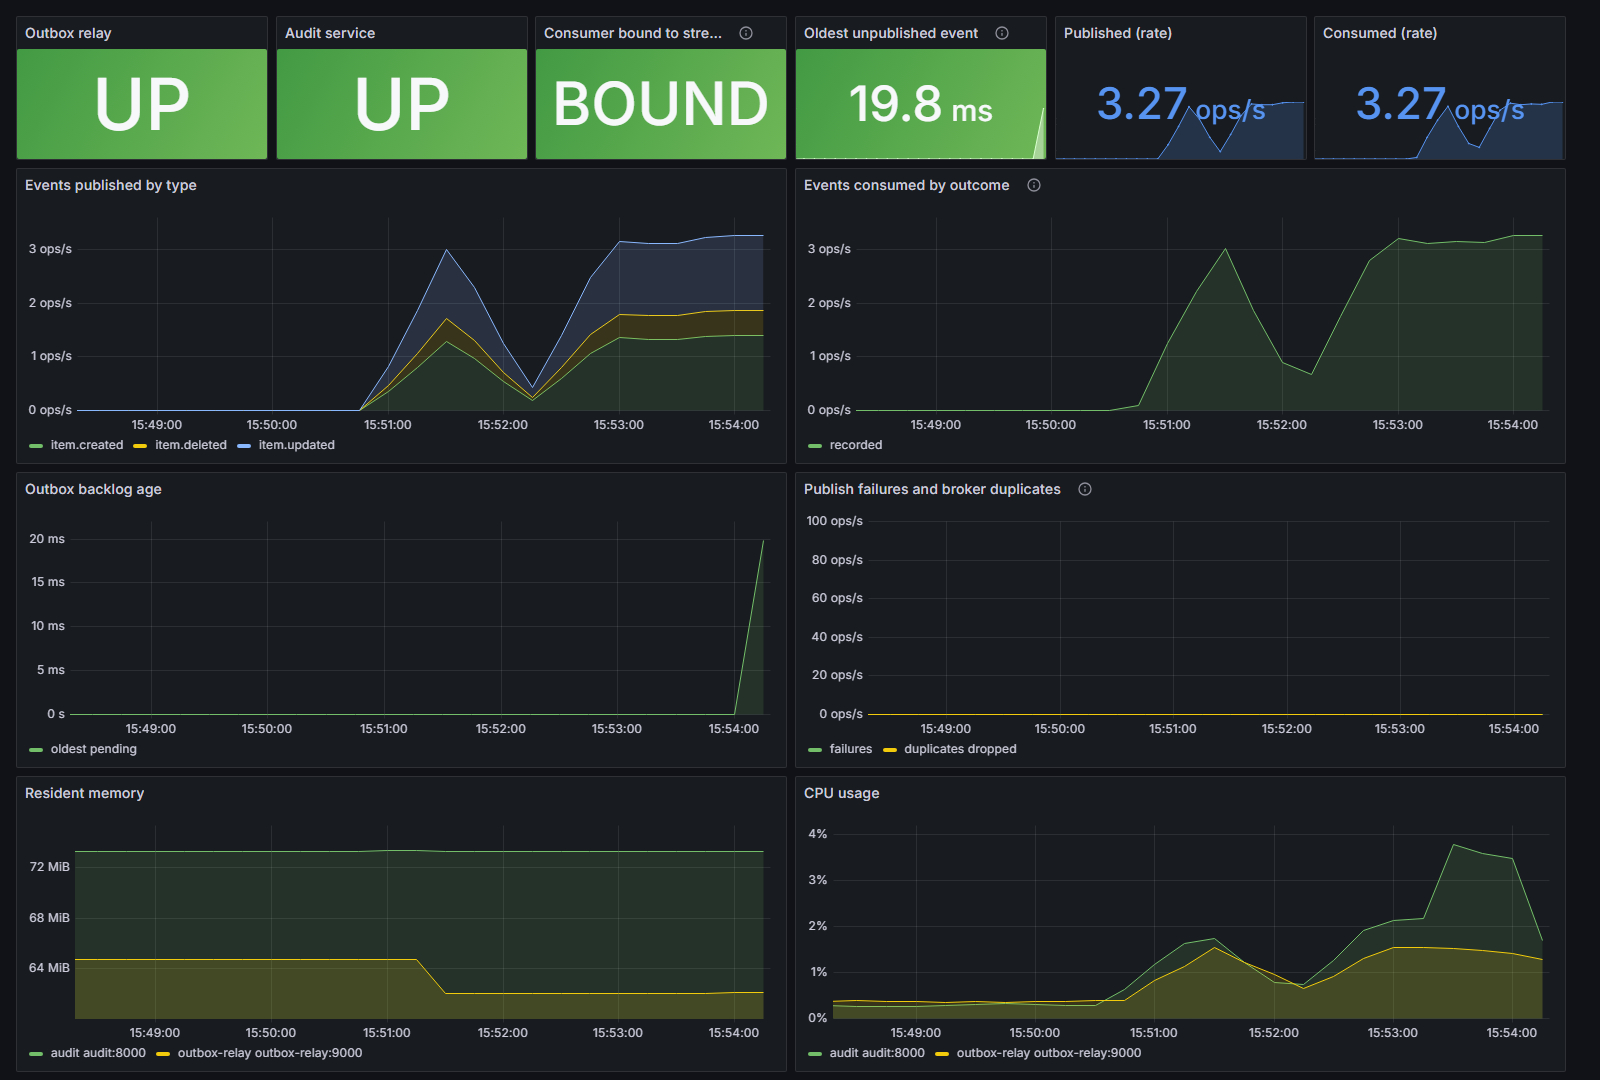
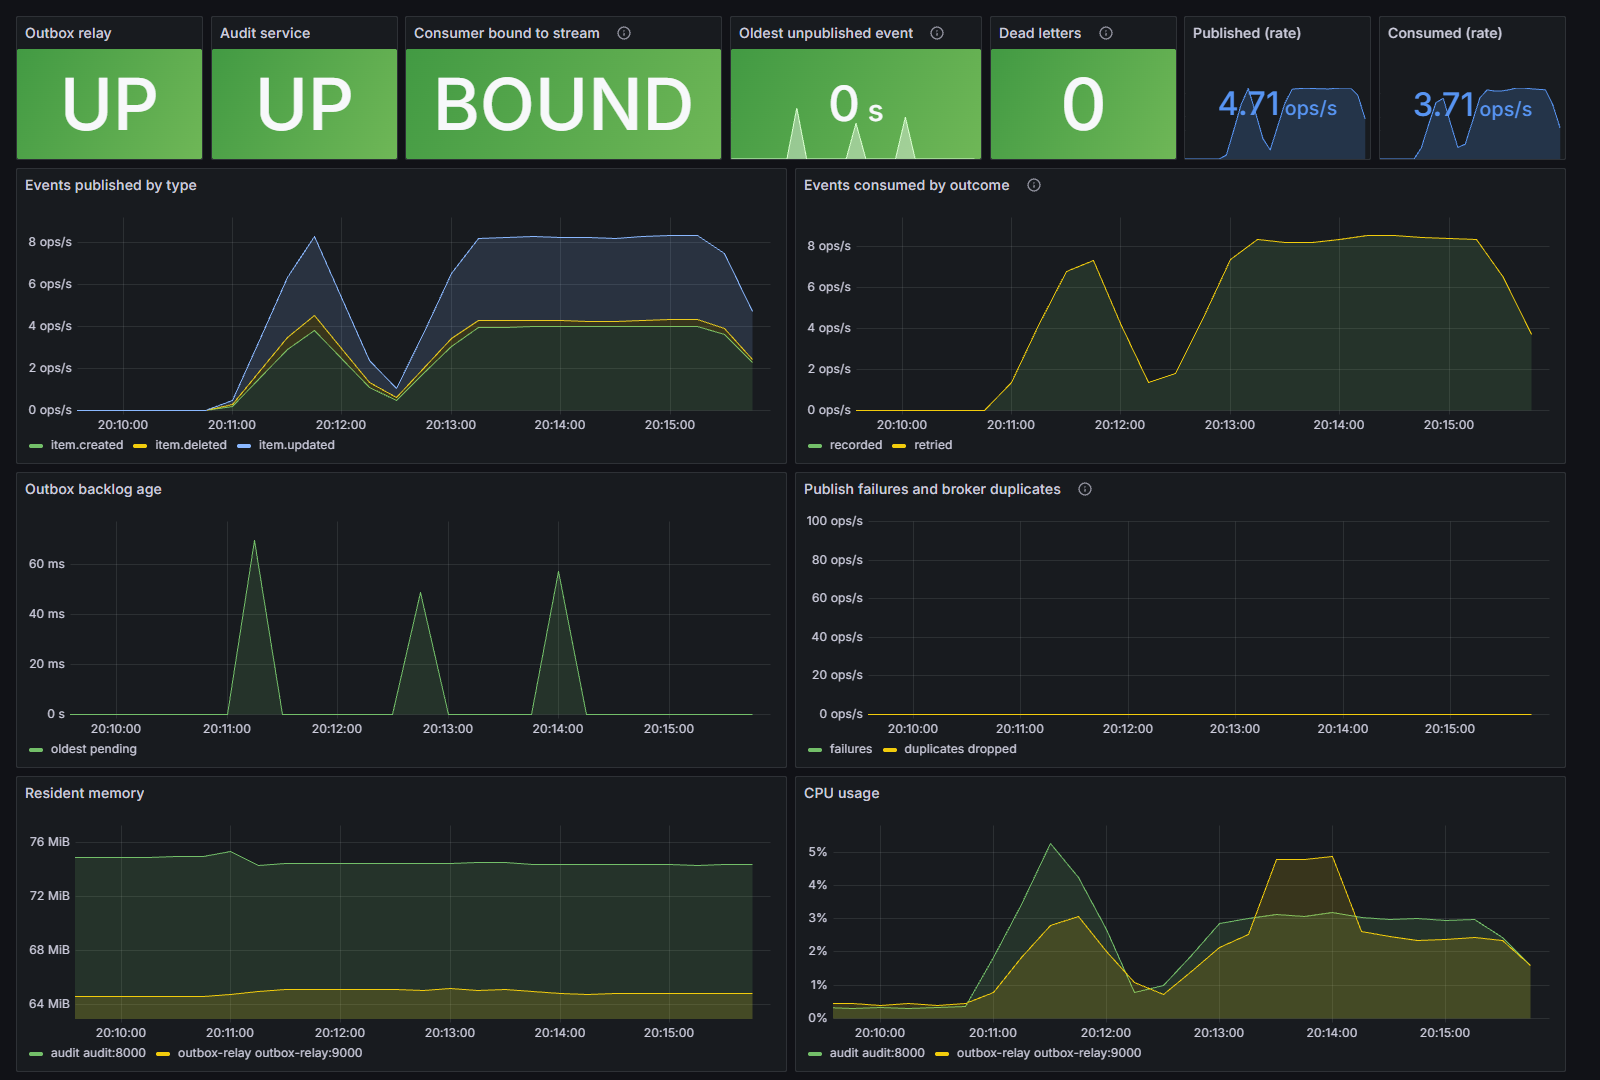
docs: refresh the Event Pipeline screenshot with the dead-letter panel
The consumer-binding panel is widened so its title is no longer truncated.

diff --git a/README.md b/README.md
@@ -163,8 +163,8 @@ trace.
 ![Jaeger trace of an item update spanning the items API, the outbox relay, and the audit service](docs/images/jaeger-trace.png)
 
 **Event Pipeline dashboard.** Publication and consumption rates by event type
-and outcome, outbox backlog age, broker duplicates, and the consumer's binding
-to the stream.
+and outcome, outbox backlog age, broker duplicates, the consumer's binding to
+the stream, and unresolved dead letters.
 
 ![Grafana Event Pipeline dashboard under load](docs/images/grafana-event-pipeline.png)
 
